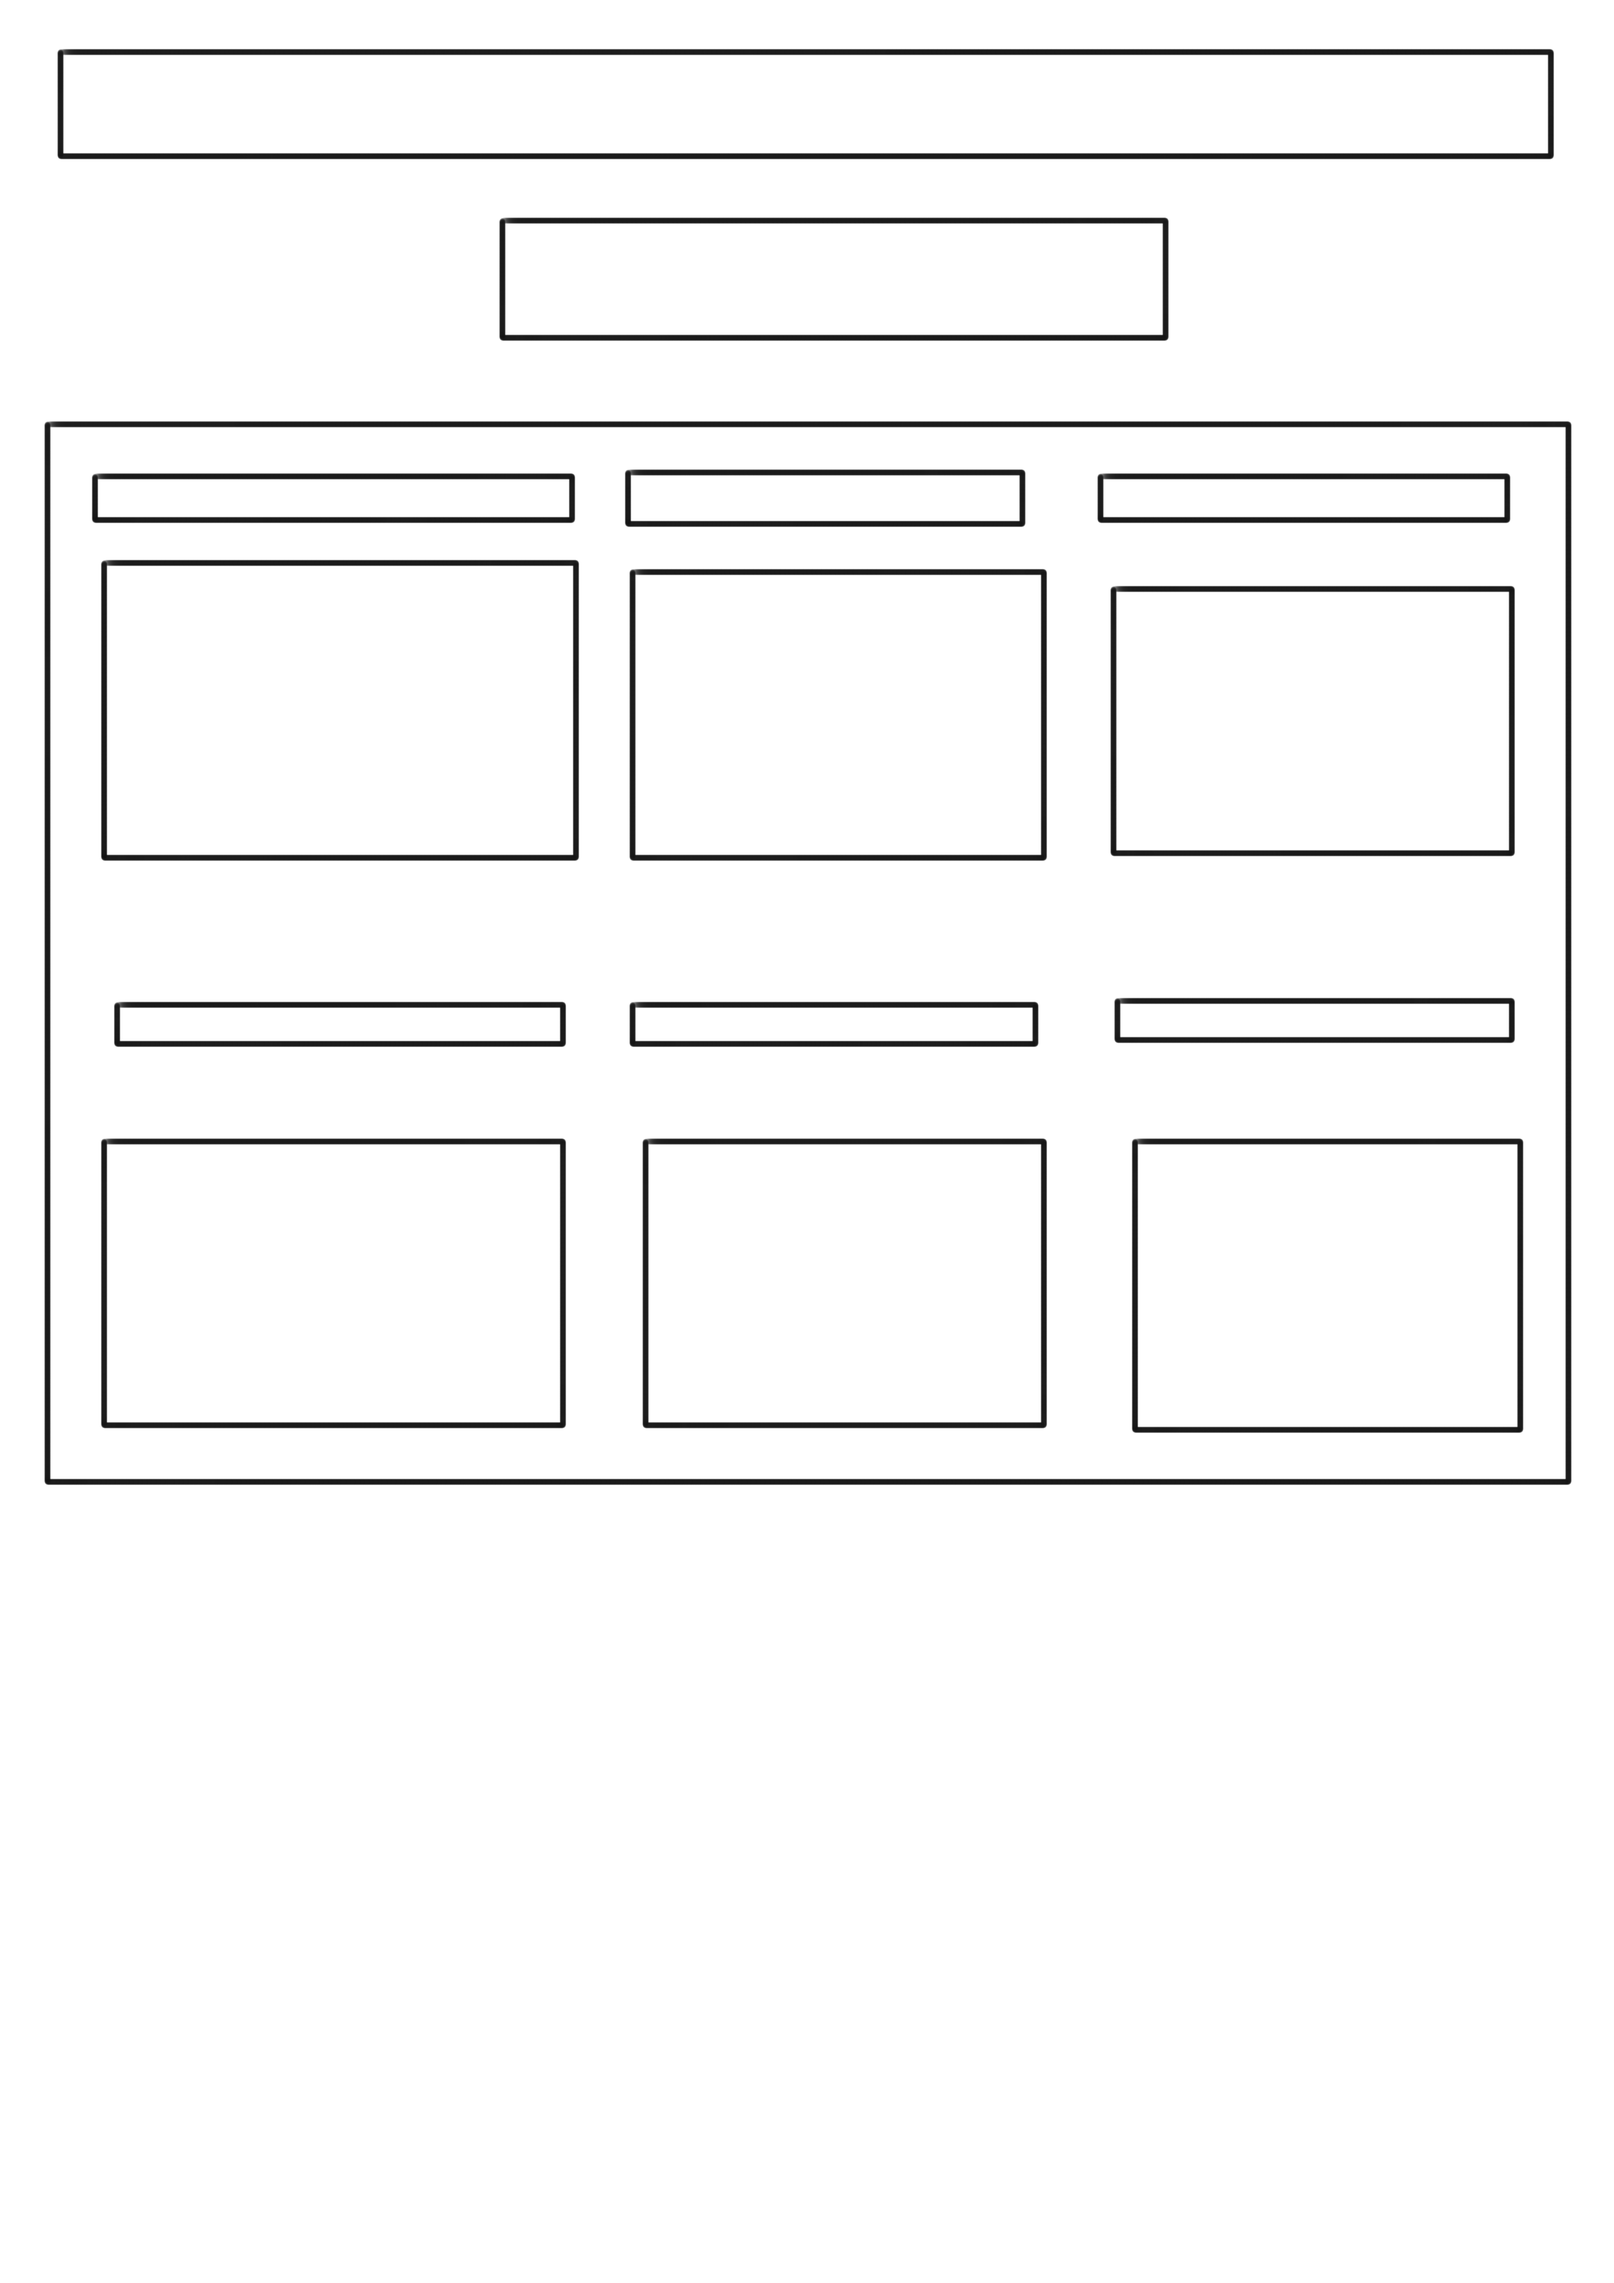
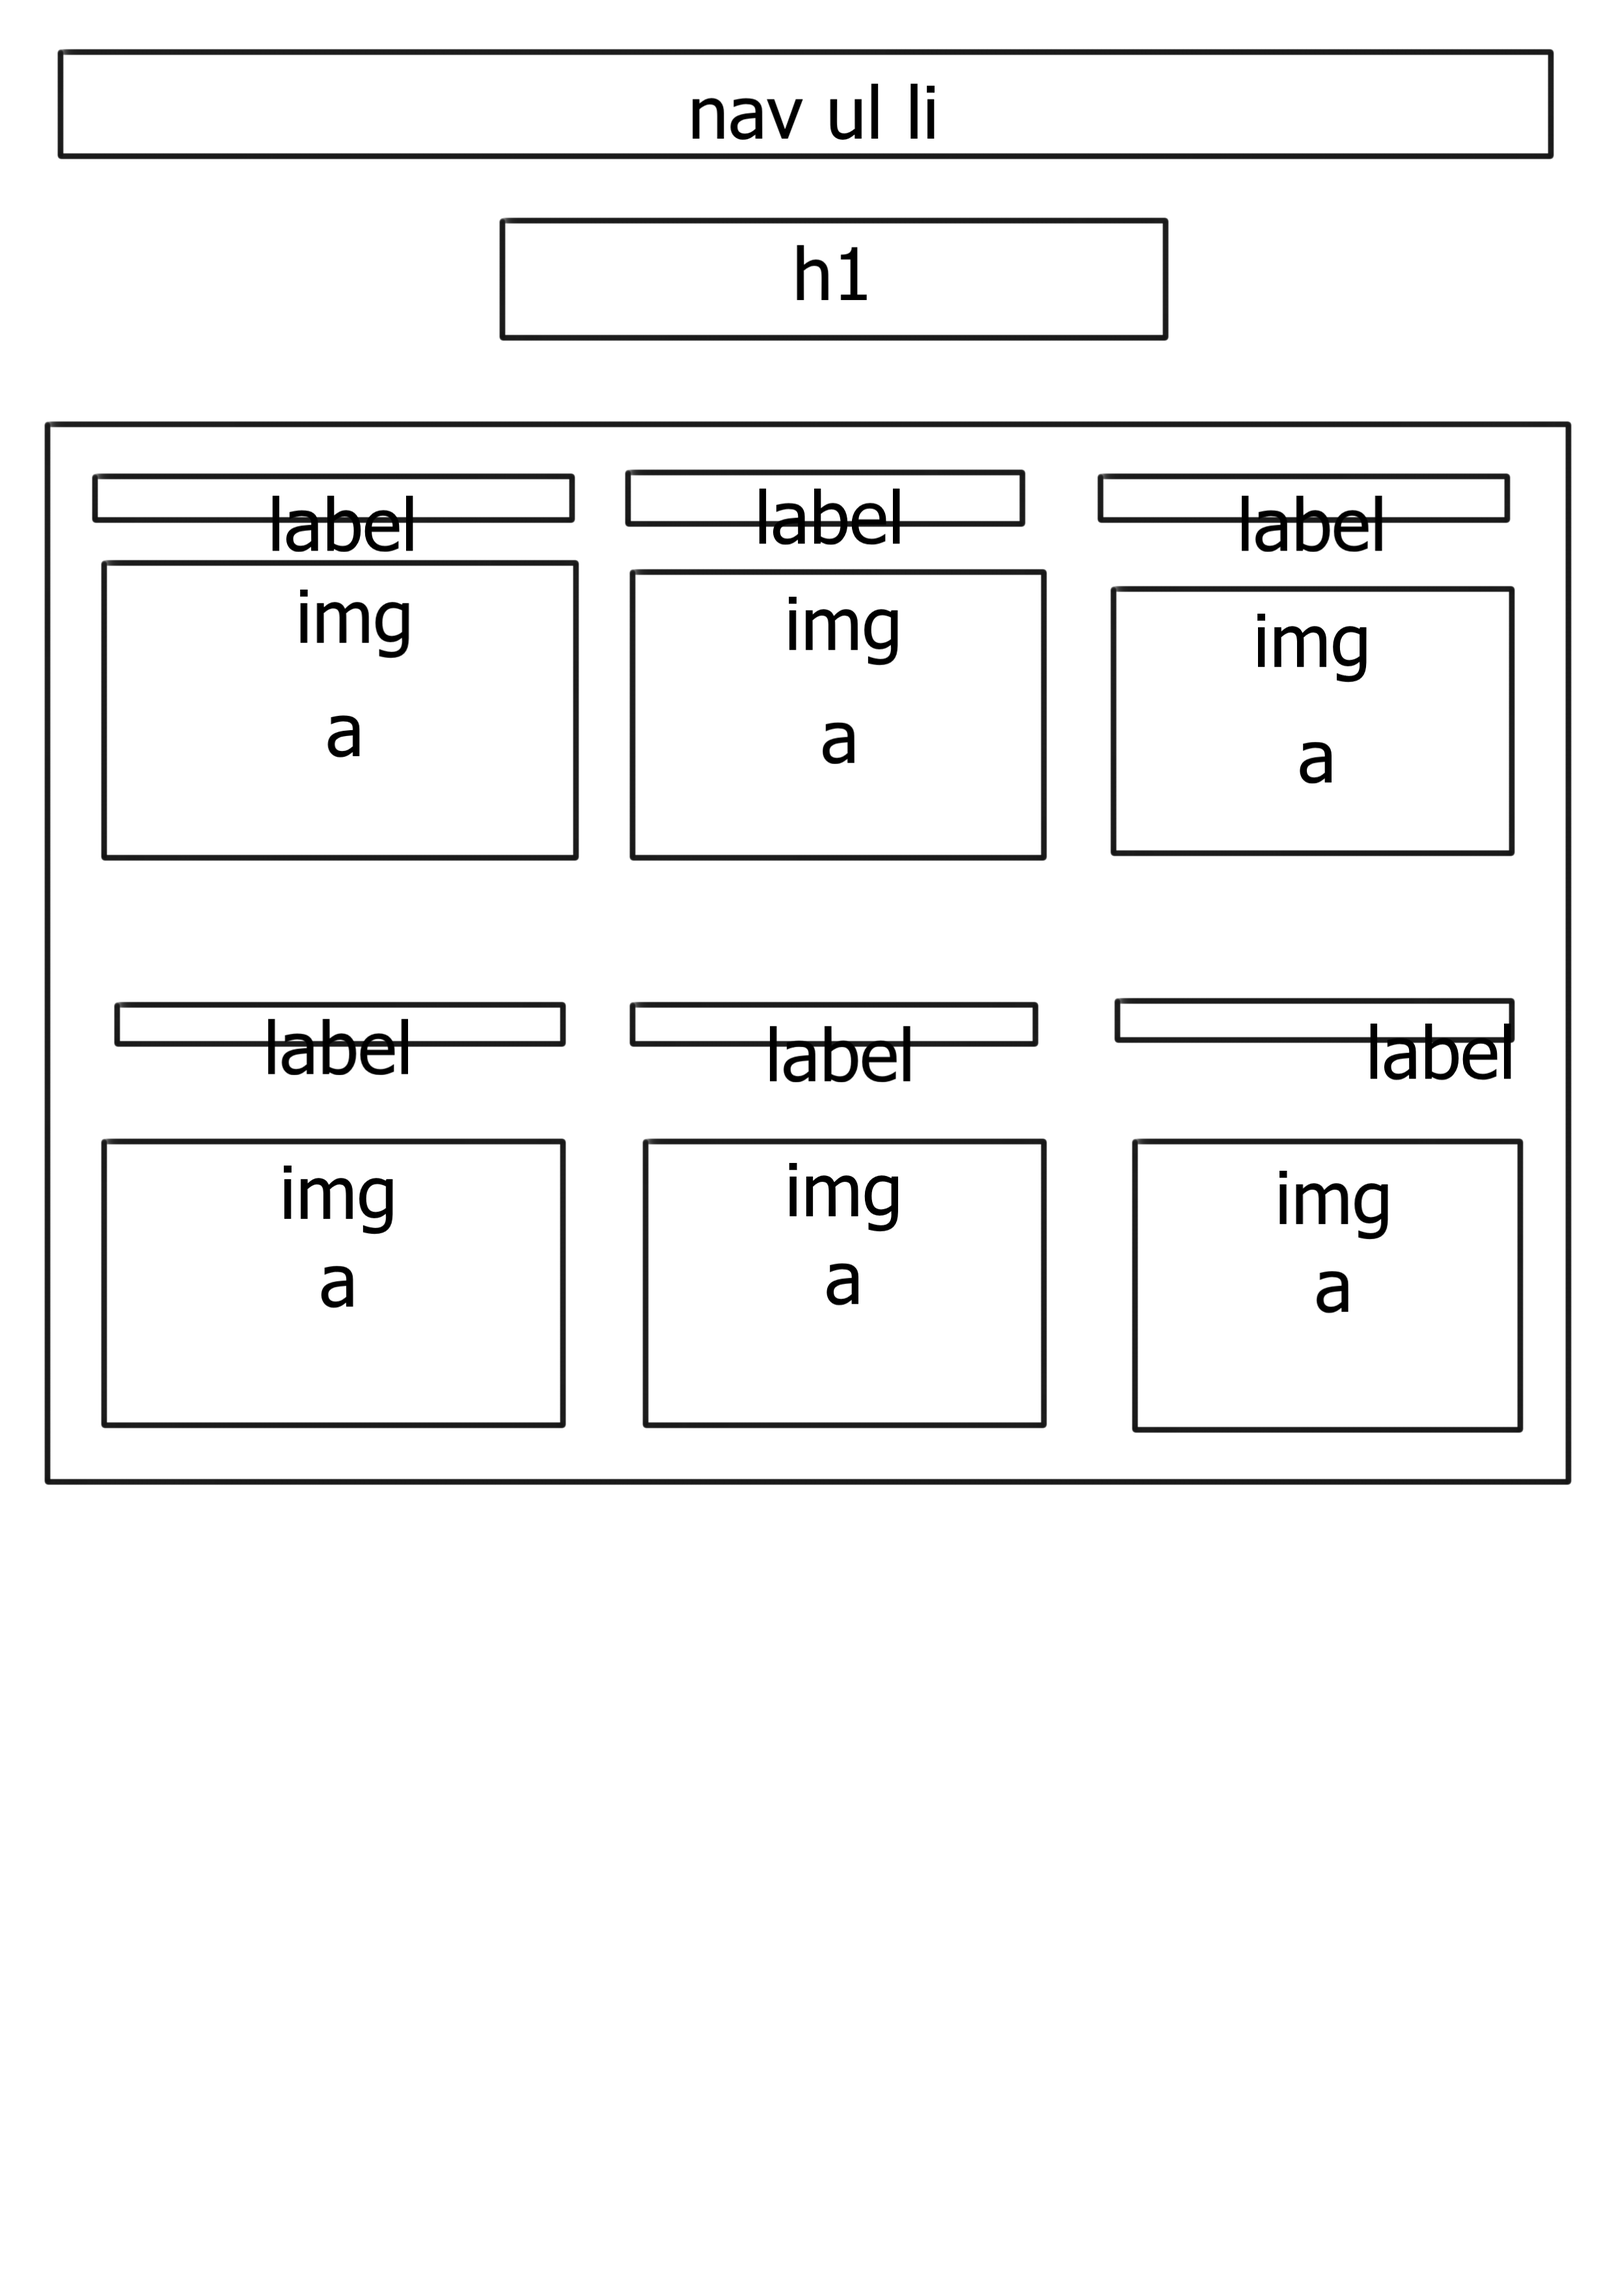
crated html and css files and finished layouts

diff --git a/index.html b/index.html
@@ -1,0 +1,39 @@
+<!DOCTYPE html>
+<html lang="en">
+    <head>
+        <meta charset="utf-8">
+        <meta name="viewport" content="width=device-width, initial-scale=1.0">
+        <title>The Story of My First Car</title>
+        <link rel="stylesheet" href="./styling.css">
+    </head>
+    <body>
+        <div id="navbar">
+            <nav id="navigation">
+                <ul>
+                    <li><a href="">Home</a></li>
+                    <li><a href="">Link 1</a></li>
+                    <li><a href="">Link 2</a></li>
+                    <li><a href="">Link 3</a></li>
+                </ul>
+            </nav>
+        </div>
+        <div id="heading">
+            <h1>Heading 1</h1>
+        </div>
+        <div id="sec-1">
+            <h2>Heading 2</h2>
+            <p></p>
+        </div>
+        <div id="sec-2">
+            <h2>Heading 2</h2>
+            <p></p>
+        </div>
+        <div id="sec-3">
+            <h2>Heading 2</h2>
+            <p></p>
+        </div>
+        <div id="img-1">
+            <img src="" alt="">
+        </div>
+    </body>
+</html>

diff --git a/page-3.html b/page-3.html
@@ -1,0 +1,32 @@
+<!DOCTYPE html>
+<html lang="en">
+    <head>
+        <meta charset="utf-8">
+        <meta name="viewport" content="width=device-width, initial-scale=1.0">
+        <title>The Story of My First Car</title>
+        <link rel="stylesheet" href="./styling.css">
+    </head>
+    <body>
+        <div id="navbar">
+            <nav id="navigation">
+                <ul>
+                    <li><a href="">Home</a></li>
+                    <li><a href="">Link 1</a></li>
+                    <li><a href="">Link 2</a></li>
+                    <li><a href="">Link 3</a></li>
+                </ul>
+            </nav>
+        </div>
+        <div id="heading">
+            <h1>Heading 1</h1>
+        </div>
+        <div id="img-grid">
+            <a href=""><img src="" alt=""></a>
+            <a href=""><img src="" alt=""></a>
+            <a href=""><img src="" alt=""></a>
+            <a href=""><img src="" alt=""></a>
+            <a href=""><img src="" alt=""></a>
+            <a href=""><img src="" alt=""></a>
+        </div>
+    </body>
+</html>

diff --git a/page-1.html b/page-1.html
@@ -1,0 +1,24 @@
+<!DOCTYPE html>
+<html lang="en">
+    <head>
+        <meta charset="utf-8">
+        <meta name="viewport" content="width=device-width, initial-scale=1.0">
+        <title>The Story of My First Car</title>
+        <link rel="stylesheet" href="./styling.css">
+    </head>
+    <body>
+        <div id="navbar">
+            <nav id="navigation">
+                <ul>
+                    <li><a href="">Home</a></li>
+                    <li><a href="">Link 1</a></li>
+                    <li><a href="">Link 2</a></li>
+                    <li><a href="">Link 3</a></li>
+                </ul>
+            </nav>
+        </div>
+        <div id="heading">
+            <h1>Heading 1</h1>
+        </div>
+    </body>
+</html>

diff --git a/page-2.html b/page-2.html
@@ -1,0 +1,24 @@
+<!DOCTYPE html>
+<html lang="en">
+    <head>
+        <meta charset="utf-8">
+        <meta name="viewport" content="width=device-width, initial-scale=1.0">
+        <title>The Story of My First Car</title>
+        <link rel="stylesheet" href="./styling.css">
+    </head>
+    <body>
+        <div id="navbar">
+            <nav id="navigation">
+                <ul>
+                    <li><a href="">Home</a></li>
+                    <li><a href="">Link 1</a></li>
+                    <li><a href="">Link 2</a></li>
+                    <li><a href="">Link 3</a></li>
+                </ul>
+            </nav>
+        </div>
+        <div id="heading">
+            <h1>Heading 1</h1>
+        </div>
+    </body>
+</html>
